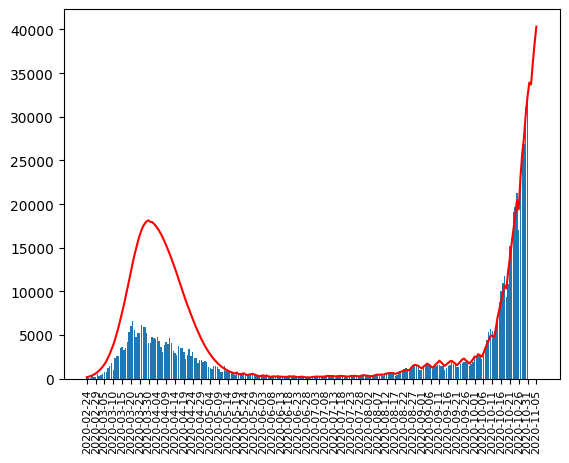
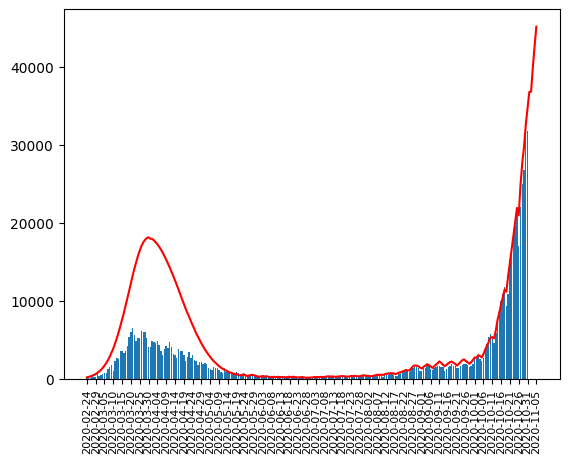
change the trend range

diff --git a/forecast.py b/forecast.py
@@ -83,9 +83,9 @@ for i in range(total):
         moving_7_day_sum += real_data[i]
         if i > 0:
             if real_data[i] > real_data[i - 1]:
-                trend_direction = min(trend_direction + 1, 3.5)
+                trend_direction = min(trend_direction + 1, 4.5)
             else:
-                trend_direction = max(trend_direction - 1, -3.5)
+                trend_direction = max(trend_direction - 1, -4.5)
     else:
         moving_7_day_sum += (1 + trend_direction * 0.1) * real_data[i - sample_from_n_days_ago]
 

diff --git a/README.md b/README.md
@@ -12,11 +12,11 @@ I assume that peak day is 2020-03-30.
 ### predicted 5 days
 date        | new case
 ------------|----------
-2020-11-01	| 33918
-2020-11-02	| 33686
-2020-11-03	| 36219
-2020-11-04	| 38377
-2020-11-05	| 40323
+2020-11-01	| 36783
+2020-11-02	| 36816
+2020-11-03	| 39901
+2020-11-04	| 42633
+2020-11-05	| 45168
 
 
 ### Total
